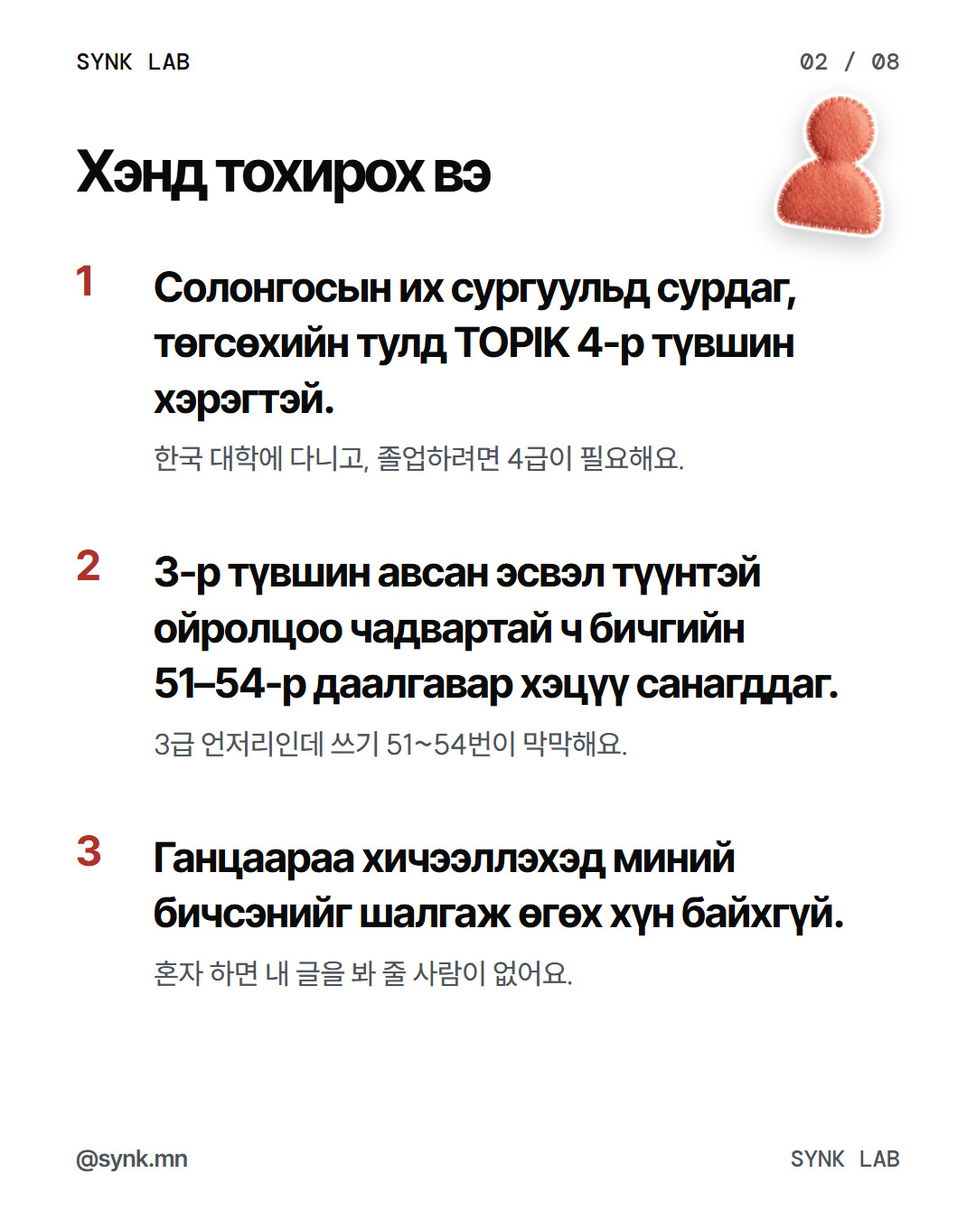
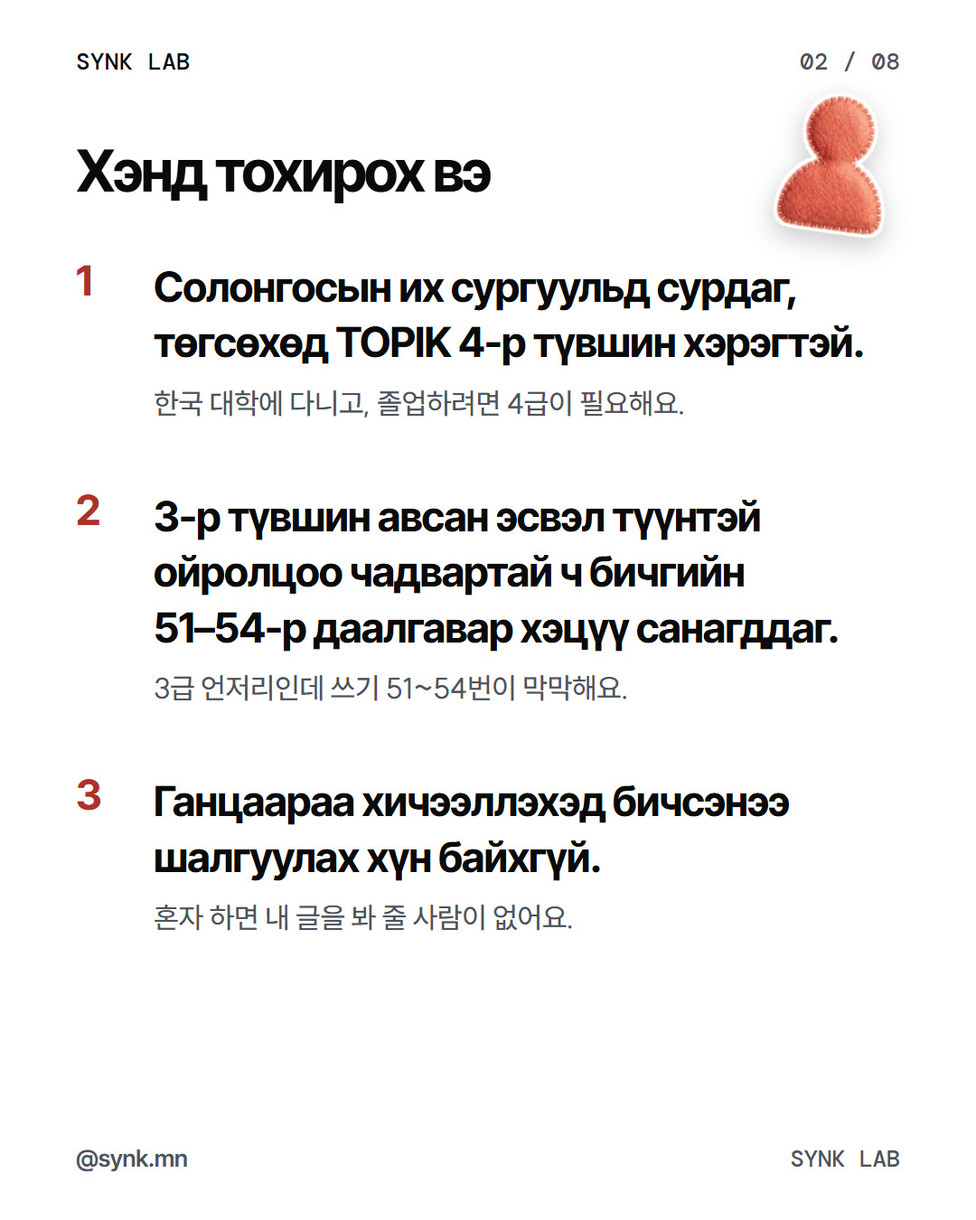
chore(LAB 첫 글 ①): 아르곤 지적 두 곳을 고쳐 10차 대조 「정상」 → 10-24 21:00 인스타·페북 예약
- 2장 셋째 줄 «бичсэнээ шалгуулах»(1인칭 миний 뺌) · 1번 줄 «төгсөхөд … хэрэгтэй», 3장 «Баасан гараг гэхэд · багш засаад буцааж өгнө»(ихэвчлэн 뺌) — 9차 아르곤 어색 → 10차 아르곤 · Vertex 3.1 Pro 정상
- 2 · 3장 다시 굽고 게시 JPG 02 · 03 교체
- Business Suite 교차 예약(10-24 16:02) — 예약 목록 두 줄 확인, 게시결과 · 준비 · README · 기획 갱신
- 현장 노트: 사진 여러 장 예약의 스위치 · 시각 칸 · 시간대 확인
- 트랙 · LAB 장부 M7 · 첫 연락 준비 목록 ⑥ 상태

diff --git a/docs/마케팅/LAB_TOPIK4반소식_mn_20261023/원고.html b/docs/마케팅/LAB_TOPIK4반소식_mn_20261023/원고.html
@@ -93,9 +93,9 @@
   <div class="k-in">
     <h2 class="k-title s mn">Хэнд тохирох вэ</h2>
     <ul class="who">
-      <li><span class="n">1</span><div><p class="m">Солонгосын их сургуульд сурдаг, төгсөхийн тулд TOPIK 4-р түвшин хэрэгтэй.</p><p class="k">한국 대학에 다니고, 졸업하려면 4급이 필요해요.</p></div></li>
+      <li><span class="n">1</span><div><p class="m">Солонгосын их сургуульд сурдаг, төгсөхөд TOPIK 4-р түвшин хэрэгтэй.</p><p class="k">한국 대학에 다니고, 졸업하려면 4급이 필요해요.</p></div></li>
       <li><span class="n">2</span><div><p class="m">3-р түвшин авсан эсвэл түүнтэй ойролцоо чадвартай ч бичгийн <span class="nw">51–54-р</span> даалгавар хэцүү санагддаг.</p><p class="k">3급 언저리인데 쓰기 51~54번이 막막해요.</p></div></li>
-      <li><span class="n">3</span><div><p class="m">Ганцаараа хичээллэхэд миний бичсэнийг шалгаж өгөх хүн байхгүй.</p><p class="k">혼자 하면 내 글을 봐 줄 사람이 없어요.</p></div></li>
+      <li><span class="n">3</span><div><p class="m">Ганцаараа хичээллэхэд бичсэнээ шалгуулах хүн байхгүй.</p><p class="k">혼자 하면 내 글을 봐 줄 사람이 없어요.</p></div></li>
     </ul>
   </div>
   <img class="k-sticker" data-deco src="../../디자인/SNS키트/assets/sticker-person.webp" alt="" style="--s:118px;--r:8deg;right:96px;top:150px">
@@ -110,14 +110,14 @@
     <ul class="steps">
       <li><b>Бямба гараг</b><span>90 минутын шууд хичээл</span></li>
       <li><b>Лхагва гарагийн 23:00 хүртэл</b><span>уншлагын 5 асуулт, бичгийн 1 даалгавраа илгээнэ</span></li>
-      <li><b>Ихэвчлэн Баасан гараг хүртэл</b><span>багш засаад буцааж өгнө</span></li>
+      <li><b>Баасан гараг гэхэд</b><span>багш засаад буцааж өгнө</span></li>
     </ul>
     <p class="note">Хичээлд сууж чадаагүй бол бичлэгээр нөхөж үзнэ.</p>
     <figure class="shotbox" data-trend="screen" style="width:740px;margin-bottom:0">
       <img src="화면/학생-첨삭이왔어요.webp" alt="WORLD 이번 주 과제 — 읽기 냈어요 · 쓰기 첨삭이 왔어요(연습 반)">
       <span class="k-tape" data-deco style="--r:7deg;right:-40px;top:-18px"></span>
     </figure>
-    <p class="cap"><span>Туршилтын ангийн дэлгэцийн зураг · «첨삭» — багшийн засвар</span><span class="ko">토 수업 → 수 밤 11시 과제 → 보통 금요일까지 첨삭</span></p>
+    <p class="cap"><span>Туршилтын ангийн дэлгэцийн зураг · «첨삭» — багшийн засвар</span><span class="ko">토 수업 → 수 밤 11시 과제 → 금요일까지 첨삭</span></p>
   </div>
   <div class="k-foot"><span class="k-handle" style="font-size:26px">@synk.mn</span><span>SYNK LAB</span></div>
 </section>

diff --git a/docs/_ops/트랙.md b/docs/_ops/트랙.md
@@ -19,7 +19,7 @@
 - **PATH 정착관리 — 정할 것 여덟(10-21, 유호님 차례 · 하나는 기한 11-10):** 외국인 정착·통합 관리 사업 계획과 로드맵을 [계획](../PATH_정착관리/README.md)·[두 쪽 판](../PATH_정착관리/한눈에.md)에 썼다(근거 조사 다섯 `docs/PATH_정착관리/조사/`, Fable 검수 세 번 — 32건 + 재검수 9건 + 10-22 뿌리 프로그램 23건 반영). 공고문 원문은 10-22 확인했고(정착 과제 마련·심사 20점·비예산), 전북도 [제안서 초안](../PATH_정착관리/제안/전북_광역형비자_정착과제_제안_초안.md)을 썼다(Fable 검수 17건 반영). 10-22 보내기 전 정할 것 아홉은 유호님이 추천대로 정했고(결정 표), 받는 곳 외국인국제정책과(참조 교육협력과)를 도청 직원검색으로 확인했다. PDF(`제안/전북_광역형비자_정착과제_협력제안서.pdf` — 원고 HTML을 `node docs/PATH_정착관리/제안/굽기.cjs`로 굽는다)와 Gmail(unmet23) 임시보관함 메일 초안(받는 사람 빈칸, PDF 붙임)까지 만들었다 — **10-22 유호님 「1~2주 준비하고 보내자」: 바로 보내지 않는다.** Claude 몫 준비는 10-22에 끝냈다 — 참고 자료·한 장 요약·협력 의향서(안)·참여 안내·동의서(한국어·몽골어, 몽골어는 원어민 검수 전) PDF, 전북 맞춤 보강(근거 [조사 7](../PATH_정착관리/조사/7_전북기존사업.md)), 묶음 전체 Fable 검수 반영(P1 2 · P2 7 · P3 16), Gmail 초안(본문·붙임 셋) 갱신. 10-22 유호님 「10월 29일까지 최대한 보충해서 보내자」 — 참고 자료에 그림·가상 사례·근거·비용을 보태고 Fable 검수(P1 1·P2 7·P3 12)를 모두 반영했다. 같은 날 「앱 화면 시안 몇 장도 만들어서 참고 자료에 넣자」로 4절에 학생 휴대폰 셋(할 일·상담·모임)과 매니저 화면 하나를 넣었다(참고 자료 6쪽, 아르곤 3건(반영 3) · Fable 7건(반영 7), P0·P1 0) — 유호님 「이대로 좋아」, 디자인은 [플랫폼 시그널](../디자인/플랫폼_시그널/README.md#path-settle-app-mockup-20261022). 10-23 「효과 증명·위기 대응·예상 질문 셋 다 보충해줘」 — 참고 자료 효과 증명(비교군·기준선)·밤·주말 위기 대응 절, 제안서·한 장 요약·동의서(한국어·몽골어)에 위기 대응·예외 줄, 유호님용 [예상 질문과 답](../PATH_정착관리/제안/전북_실무협의_예상질문.md)(유호님이 정해 두실 것 다섯 남음 — 비상 당번·매니저 체류자격·또래 리더 활동비·미선정 때 시범·비용 출처 한 줄). 사업자는 10-23 정함 — 개인사업자 없이 2027년 1월 전주 법인, 제안 문서에 「시범(3월) 전 법인 명의로 협약」(결정 10-23). Fable 검수 P1 3건 고친 뒤 재검수 P0·P1 0. 이름·연락처는 저장소 밖 보내는 판과 Gmail 초안에만 넣었다(초안 갱신, 보내지 않음). 10-23 유호님 「아직 보내지마 1주일동안 컨텐츠 준비 제대로 하고 올리자. 아직 많이 미흡한부분이 많아」 — Fable이 도 담당 주무관·공모 평가위원의 눈으로 모자란 곳 열하나를 찾았고(협력처 이름 없음·제안자 얼굴 없음·몽골어 중심 등), 유호님이 정한 넷(매니저는 쉬운 한국어+다수 국적어 우대 · 앱 알림·AI 1차 응답은 최대 200명 두 층 · 대표 소개는 synk.im 공개분만 · 원광대 국제교류처·진흥원에 보내기 전 면담, 결정 10-23)으로 묶음을 고쳤다 — 새 붙임 [신청서 문안](../PATH_정착관리/제안/전북_정착동행_신청서문안_원고.html)(심사 내용별로 맞닿는 곳·개조식 문안), 일정이 밀리면·비용 내역·2028년·방학, 메일 제목·첫 문단, 전화 대본 셋, 참고 자료 절 순서(6쪽). **남은 것([제안 초안 5절](../PATH_정착관리/제안/전북_광역형비자_정착과제_제안_초안.md)): 유호님 전화 셋(도 — 메일 주소·보낼 날·D-2/E-7·서식 칸·대학 연락 양해 / 원광대 국제교류처 / 진흥원) → 면담 1~2건 → Claude가 결과 반영·Fable 재검수 → 10-29 마지막 판 → 10-30 무렵 「보내」**. synk.im/path 「06 정착 동행」 구역은 10-23 공개했다(synk-policy `16b68ea` · 기준 그림 `bcd4196`, 화면 검수 아르곤 1건 반영 → 0 · Fable P0·P1 0, 원고 SYNK-website `d8bf651`, 바로 거는 주소 synk.im/path/#companion). 같은 날 질문창(ASK SYNK)에도 정착 동행 기록을 공개해 「정착 동행이 뭐예요?」·「첫 30일 할 일을 어떻게 챙기나요?」·「매니저가 같이 가 주나요?」·「정착 동행 시범에 참여할 수 있나요?」가 유학·취업 지원 답 대신 06 구역 단추(「정착 동행 보기」)가 달린 답으로 간다(synk-policy `7f77ec8` · 기준 그림 `a556e4a`, 원고 SYNK-website `b4bde93`, 화면 검수 아르곤 막힘(주간 0%) → Fable 2회 재현 P0·P1·P2 0 · P3 1 후속). 10-24 영어 synk.im/en/path에도 06 「Settle Together」 구역(한국어 06과 같은 사실 · 한국어 앱 시안임을 밝힘)과 영어 질문창 단추(「See Settle Together」)를 공개했다(v11 판 위 — synk-policy `431d46d` · 기준 그림 `c2fc457`, 원고 SYNK-website `81ef9f0`, 화면 검수 아르곤 막힘 → Fable 2회 재현 P0·P1 0). 도 공모 마감 11-10. 같은 날 유호님 요청으로 문제의 근본 원인을 건강하게 푸는 「뿌리 프로그램」을 계획 4-11절에 더했다(근거 [조사 5](../PATH_정착관리/조사/5_근본원인_건강한해결.md) — 마약은 피로·빚·고립·신분 불안을 무리별로 나눠 한 팀 리그·모국어 또래 리더·첫 주 「돈 유혹」 교육·사업장 피로 점검·신분 걱정 없는 첫 상담으로 푼다). 같은 날 유호님이 외국인 일자리 조사를 보고 「PATH의 심장」(2030년 업종별 최소 112.5만 명 부족 → 인력 관리)과 최종 목표(LAB TOPIK 4급 → 모자라는 자리의 조건·인성·적응을 풀어 주는 회사, 자격증은 연결)를 말씀해 계획 0절·[2-5절](../PATH_정착관리/README.md)·4-13절 「일자리 사다리」(다섯 갈래 — 돌봄·지방 제조·유학→지역 정착·조선·농어업, 직접 할 것과 잇는 것)·7-2·8절과 두 쪽 판에 넣었다(근거 [조사 8](../PATH_정착관리/조사/8_부족직종과_자격조건.md) — 법무부 2030 전략 표·체류민원 매뉴얼 2026-10판·요양보호사 양성지침·Q-net 원문, Fable 검수 P0·P1 0 · P2 10 · P3 12 모두 반영, 결정 표 10-22). 남은 확인: 요양보호사 E-7-2 시범(지침상 2026년까지)의 2027년 이후, 몽골 EPS-TOPIK 2026 일정. 계획의 정할 것은 11절 — ① 「통제」 대신 「책임 관리」 ② 이름(가칭 PATH 정착관리) ③ 외국인 핵심 지원 0원·도움과 단속 사이의 벽 ④ 첫 시범 순서·시기(추천: 2027-03 몽골 유학생 무료 시범) ⑤ **전북도 제안 — 공모 마감 2026-11-10**(위 준비 뒤 보내는 날·보내기 승인) ⑥ 공공 위탁은 비영리 파트너와 ⑦ 값 가설 ⑧ 기존 PATH #19 정착 패키지를 A1로 흡수. 연락·계약·구현은 없다.
 - **PULSE 「매진 임박」 공포 코미디 × 홈쇼핑 — 콘티 v4(원본 릴스 그대로) 이미지 콘티 끝 · 옷은 코케트로 확정(10-23 유호님 「옷은 코케트(원본 꼴 리본) 안으로 가자. 보드도 봤어.」) · B안 시험 넷 끝(10-23 밤 유호님 「맘에 들어. b안으로 일단 테스트해보자.」 — 이미지 콘티는 만족 장부 S31) · 칼 든 강도 컷의 길 고르기 기다림:** 원본 31컷 첫 프레임과 나란히 놓은 보드 `Documents/synk-vendor/homeshopping-horror-20261021/콘티/매진임박_이미지콘티_v4_1~4.jpg` · `_한눈.jpg`, 옷 두 안 `매진임박_옷비교_v4.jpg`(원본 꼴 리본 · 코케트가 기본 추천 / 지금 옷) — 만든 길 · 닮음 · Fable 검토는 [콘티 v4 10절](../마케팅/PULSE_포트폴리오_제작준비_20261012/video/homeshopping-horror-20261021/04_콘티_v4_원본그대로.md). 강도는 복면(10-23 유호님 「강도는 원본처럼 복면으로 하자.」), 제품 · 강도가 든 물건은 블렌더 렌더 합성. B안 시험 넷 결과(Flow 114 — 6,563 → 6,449): #2 칼 든 강도는 Veo 3.1 Quality가 정책 위반으로 두 번 막음(크레딧 0), #31 도시락 강도는 Veo 통과(도시락이 0.5초 만에 다시 그려져 마감 때 블렌더로 덮음), #7 · #10 피해자 Omni는 두 판 중 한 판씩 통과(다른 판은 정책으로 막혀 환불) — 비교 영상 `synk-vendor/…/영상/v4시험/v4시험_원본과나란히.mp4`. 칼이 보이는 강도 컷이 열 중 일곱이라 유호님 차례: ② 강도도 모두 Omni(추천, 남은 약 380) · ① 칼 컷 일곱만 Omni(남은 약 528) 중 고르면 나머지 23컷. 견적 두 안(A안 Omni 27컷 약 408 / B안 약 1,258)은 [04 10절 끝](../마케팅/PULSE_포트폴리오_제작준비_20261012/video/homeshopping-horror-20261021/04_콘티_v4_원본그대로.md). 광고 카드는 블렌더 합성판 위 Remotion(크레딧 0). 그 전: 영상판 v2에 유호님 「개연성이 안보여 … 누가봐도 ai로 대충 만든 광고같아 … 구성을 아예 똑같이 하는게 그나마 나을것같아. 시간초나 장면전환하는타이밍이나 구도나 전부 말이야」 → 원본 72.7초 · 31컷을 프레임으로 재고 그대로 옮긴 콘티 v4(Fable 원본 대조 반영). 아래는 그 전 기록. **10-23 영상판:** 「가편집 v8 좋아. 이대로 Omni 1.1 Flash로 영상 만들자(약 20컷, 약 280 Flow).」(장부 S28)대로 정지컷 자리 21곳을 Omni 클립으로 바꾼 영상판 v2(`synk-vendor/…/영상판/매진임박_영상판_v2_16x9.mp4` · `_9x16.mp4`, Flow 245) — Fable 「보여 드려도 된다」(P2 둘 고침). 유호님 차례: ① 영상판 v2를 보고 고칠 곳 ② 강도 갸웃 클로즈업 C05v3는 얼굴이 덜 닮는 구간을 빼고 시작 그림에 가까운 구간을 썼다 — 곁눈질이 큰 구간이나 다시 생성(14 Flow)을 원하시면 그때 ③ 최종 음악(Suno). 아래는 그 전 기록. v2 가편집(강도 유호님 · 피해자 통2 · 리4 · 지유)에 「매진임박 맘에 드는데 ?」(장부 S27) 뒤 「더 재밌고 사람들 반응이 좋은걸로 하자 … 크롤링해서 데이터를 제대로 파악해서 적용시켜줘 … 앵글이나 이런것도 … 영상 제작은 바로 하지말고 일단 콘티 완벽하게 만들어놓고 진행하자」(10-22)에 반응 조사(한국 YouTube 300편 · 해외 251편 · 상위 16편 컷 실측 — [조사](../마케팅/PULSE_포트폴리오_제작준비_20261012/video/homeshopping-horror-20261021/02_반응조사_20261022.md))를 넣은 콘티 v3.1(39.2초 · 30컷, [콘티](../마케팅/PULSE_포트폴리오_제작준비_20261012/video/homeshopping-horror-20261021/03_콘티_v3.md))과 이미지 콘티 · 가편집 v8을 만들었다([브리프](../마케팅/PULSE_포트폴리오_제작준비_20261012/video/homeshopping-horror-20261021/00_브리프.md) 「지금 판」, 미디어 `Documents/synk-vendor/homeshopping-horror-20261021/` — `콘티/매진임박_이미지콘티_v3.jpg` · `가편집/매진임박_가편집_v8_*`). 쇼호스트 하린을 새로 세웠고 제품은 2안 꽉 밀폐용기 — **10-23 유호님 확정 「제품은 2안 꽉 밀폐용기로 가자.」** 영상 생성은 하지 않았다. 유호님 차례: ① 가편집 v8 · 이미지 콘티를 보고 고칠 곳 ② 영상 모델(약 20컷 — Omni 1.1 Flash 약 280 Flow, 입모양 맞출 컷 넷). 끝 판 셋(기본 · 「주문 완료」에서 끊는 짧은 판 · 「너네도 필요해?」)과 9:16 머리글 넷은 올릴 때 견준다. **10-22 유호님:** 이 작품은 모델별 참고 영상 기각에 들지 않는다(「그건 빼고 완성되면 올리자」) — 완성되면 PULSE 고객 앱 「완성 광고」 공간에 올린다(§8 「PULSE 모델은 사진만 · 완성 광고」 줄).
 - **1일 1편 작업실 예약 — 연결 완료, 편마다 검토 승인(10-23):** 비밀번호 9자 이상을 받는 판은 19:02 운영에 올랐고 회사 HA 사슬 26 합본은 19:45 재무장됐다. 그 화면에서 유호님이 직접 저장한 뒤 자동화 보관소 이메일을 같은 작업실 계정에 맞췄다(비밀번호는 그대로). 19:49 KST 실제 `/api/login`·`/api/me`·`/api/social/workspace`가 모두 200이며 본인 계정 일치·기존 작업 7건 전부 게시 완료·예약 대기 0건을 확인했다. 19:51 정기 작업도 등록·서버 대조 모두 종료 0으로 끝나 401 연결 문제는 해소됐다. 실제 새 편의 등록·발행은 그 편의 승인 뒤 확인한다. 정기 작업 「SYNK 예약큐」는 기존 30분 주기를 유지한다. 편마다 텔레그램 검토 링크에서 유호님이 승인해야 나가는 조건도 그대로다([작업실 예약 등록](../마케팅/온라인마케팅지도/engagement/company/WORKSPACE.md#daily-content-workspace-booking-20261021)). 게시 연결 넷은 같은 날 @synkkorean·@synkbrief(유튜브)·@synkbrief·@synk.mn(인스타)에 연결 확인을 마쳤다. 서버의 언어·AI 표시 등 판별 지원 범위는 §6 같은 이름 줄과 실제 게시 전 검사를 따른다. 비식별 읽기·예약 실행 검증 근거는 `output/business-workflow-pilot-review/`의 `auth-verification-2026-10-23T10-49-43-159Z.json`·`scheduled-run-proof.json`이다.
-- **TOPIK 4급 관심 등록 — 정할 것(10-21):** 공개한 synk.im/lab/topik4/에서 ① 시험 등록 종단 확인은 10-21 끝(회사 서버 수집·시험 분류까지) ② 모집 글(`experiences/lab-topik4/모집글.md`) 게시와 @synk.mn 프로필 링크 바꾸기 ③ 영업 명단 30곳 첫 메일·DM — 첫 연락일은 「보내기 전 확인 셋」(실제 계정 쓰기 피드백 · 휴대폰 실기기 · 회신 주소)이 끝나는 날(10-21 밤 유호님, [결정](결정.md)). ①② 10-21 유호님 휴대폰 확인 끝(막힌 곳 없음), ③ 회신 주소 hello@synk.im으로 채움(10-21 밤) → **1차 묶음은 10-30 무렵, 준비가 충분해진 뒤 보냄 — 10-22 낮 유호님 「1주일동안 우리 사업 전체를 강화하고 보내자」, 10-23 「충분히 준비되고나서 … 준비해놓은 컨텐츠가 많이 부족」 → 그 전에 맛보기 수업 영상과 @synk.mn 첫 글들을 채운다** — 그 1주 할 일은 [준비 목록 6절](../../experiences/lab-topik4/첫연락_준비목록.md#week-before)([결정](결정.md) 10-22·10-23). 예약 걸어 둔 것 없음(초안·붙일 것은 저장소 밖 `Documents/메일정리/2026-10-21/영업_첫30곳/`, 묶음 목록은 그 폴더 `1차_보낼묶음.md`). 검수용 Gmail 초안 7통(unmet23 「Drafts」, 보내지 않음·예약 없음)은 사실 확인·메일 다듬기 뒤 새 판으로 바꾼다 — 보내기는 유호님 검수 뒤 Gmail에서 직접. 그 밖의 [첫 연락 준비 목록](../../experiences/lab-topik4/첫연락_준비목록.md)은 문턱이 아니라 그날까지 되는 만큼 — 10-21 밤 Claude가 넷(TOPIK II 입구 확인 · 몽골어 안내문 · 통화용 소개 · 신청 운영 절차)을 갖췄고, 10-22에 WORLD TOPIK II 바로가기 주소를 더했다(메일 초안의 WORLD 링크 46곳도 새 주소로 바꿈 — 검수하실 때 `https://synk.im/world/?exam=topik2…`로 보입니다). @synk.mn 반 소식이 남았다(환불 기준점은 10-22 확정). 신청 수는 매주 월요일 회사 Workspace 「문의 접수」에서 세어 주세요([README 신청 운영](../../experiences/lab-topik4/README.md#신청-운영주-1회)). **@synk.mn 첫 글 두 편 v2(10-23 저녁, ab09e540c)** — 유호님 「오케이 이건 그럼 내일 제미나이 초기화되면 올리자」: 대조기는 10-23 21시 Vertex Gemini 3.1 Pro로 끝(전부 「정상」) — ① 반 소식 10-24 21:00 · ② 51·52번 빈칸 10-27 21:00, 14시 「오늘 편 게시」 작업이 건다([① 게시 묶음](../마케팅/LAB_TOPIK4반소식_mn_20261023/게시/README.md)). 그 전에 유호님 휴대폰 앱: 인스타 프로필 링크 둘(웹 · Business Suite로는 안 됨). 페북 SYNK 페이지 소개 링크는 10-23 Claude가 더함. **10-24 14시 아르곤 대조: ① 다섯 묶음 중 하나 「어색」(2장 셋째 줄 1인칭 «миний» · 3장 «Баасан гараг хүртэл») → 승인 조건대로 걸지 않고 보류(게시결과), 두 곳을 고쳐 다시 구울지 그대로 올릴지 유호님 답 대기 · ② 세 묶음 「정상」**([① 검사.아르곤](../마케팅/LAB_TOPIK4반소식_mn_20261023/게시/준비.json)).
+- **TOPIK 4급 관심 등록 — 정할 것(10-21):** 공개한 synk.im/lab/topik4/에서 ① 시험 등록 종단 확인은 10-21 끝(회사 서버 수집·시험 분류까지) ② 모집 글(`experiences/lab-topik4/모집글.md`) 게시와 @synk.mn 프로필 링크 바꾸기 ③ 영업 명단 30곳 첫 메일·DM — 첫 연락일은 「보내기 전 확인 셋」(실제 계정 쓰기 피드백 · 휴대폰 실기기 · 회신 주소)이 끝나는 날(10-21 밤 유호님, [결정](결정.md)). ①② 10-21 유호님 휴대폰 확인 끝(막힌 곳 없음), ③ 회신 주소 hello@synk.im으로 채움(10-21 밤) → **1차 묶음은 10-30 무렵, 준비가 충분해진 뒤 보냄 — 10-22 낮 유호님 「1주일동안 우리 사업 전체를 강화하고 보내자」, 10-23 「충분히 준비되고나서 … 준비해놓은 컨텐츠가 많이 부족」 → 그 전에 맛보기 수업 영상과 @synk.mn 첫 글들을 채운다** — 그 1주 할 일은 [준비 목록 6절](../../experiences/lab-topik4/첫연락_준비목록.md#week-before)([결정](결정.md) 10-22·10-23). 예약 걸어 둔 것 없음(초안·붙일 것은 저장소 밖 `Documents/메일정리/2026-10-21/영업_첫30곳/`, 묶음 목록은 그 폴더 `1차_보낼묶음.md`). 검수용 Gmail 초안 7통(unmet23 「Drafts」, 보내지 않음·예약 없음)은 사실 확인·메일 다듬기 뒤 새 판으로 바꾼다 — 보내기는 유호님 검수 뒤 Gmail에서 직접. 그 밖의 [첫 연락 준비 목록](../../experiences/lab-topik4/첫연락_준비목록.md)은 문턱이 아니라 그날까지 되는 만큼 — 10-21 밤 Claude가 넷(TOPIK II 입구 확인 · 몽골어 안내문 · 통화용 소개 · 신청 운영 절차)을 갖췄고, 10-22에 WORLD TOPIK II 바로가기 주소를 더했다(메일 초안의 WORLD 링크 46곳도 새 주소로 바꿈 — 검수하실 때 `https://synk.im/world/?exam=topik2…`로 보입니다). @synk.mn 반 소식이 남았다(환불 기준점은 10-22 확정). 신청 수는 매주 월요일 회사 Workspace 「문의 접수」에서 세어 주세요([README 신청 운영](../../experiences/lab-topik4/README.md#신청-운영주-1회)). **@synk.mn 첫 글 두 편 v2(10-23 저녁, ab09e540c)** — 유호님 「오케이 이건 그럼 내일 제미나이 초기화되면 올리자」: 대조기는 10-23 21시 Vertex Gemini 3.1 Pro로 끝(전부 「정상」) — ① 반 소식 10-24 21:00 · ② 51·52번 빈칸 10-27 21:00, 14시 「오늘 편 게시」 작업이 건다([① 게시 묶음](../마케팅/LAB_TOPIK4반소식_mn_20261023/게시/README.md)). 그 전에 유호님 휴대폰 앱: 인스타 프로필 링크 둘(웹 · Business Suite로는 안 됨). 페북 SYNK 페이지 소개 링크는 10-23 Claude가 더함. **10-24 아르곤 대조: ① 다섯 묶음 중 하나 「어색」(14시 보류) → 두 곳을 고쳐 10차 아르곤 · Vertex 「정상」, 2 · 3장 다시 구워 16:02에 21:00 예약됨(인스타 · 페북) · ② 세 묶음 「정상」(10-27 21:00 슬롯). 남은 것: 21:00 뒤 ① 인스타 고정 · 게시 주소 기록**([① 검사.아르곤](../마케팅/LAB_TOPIK4반소식_mn_20261023/게시/준비.json)).
 
 - **WORLD TOPIK 맞춤 검수 — 최종안 고르기(10-20, 유호님 차례):** 1차 Claude·2차 페이블·3차 아스트라를 합친 [최종 제안](../../experiences/synk-world-app/qa/topik-personalization-review-20261020/최종_제안.md)과 [보고 페이지](https://claude.ai/artifact/L8riXRNw7PmcLxGkPrtPL8). 결론: 엔진의 측정은 믿을 만하지만 읽기 처방 고리가 없고(학습 항목이 이어진 활동은 듣기 게임 둘뿐), 화면이 진단 결과를 접어 보이며, 공개판 쓰기·TOPIK II·모의시험·대화 음성이 0이다. 정할 것: 지금 묶음(읽기 처방·예상 급수 칸 정직하게·진단 결과 구별·위치판 이력·홈 이유 한 줄·목표 이름) 진행 여부, 「TOPIK 기초」의 새 이름, 시험 종류·목표 급·시험일을 물을지, 문항·대화 음성 제작과 교원 검수, TOPIK II 범위, 제품 AI 호출 비용, 손님 기록 옮기기.
 

diff --git a/experiences/lab-topik4/첫연락_준비목록.md b/experiences/lab-topik4/첫연락_준비목록.md
@@ -134,6 +134,6 @@
 | 할 일 | 상태 |
 |---|---|
 | ⑤ 맛보기 수업 영상 — TOPIK II 쓰기 51~54번 한 문항을 실제 수업처럼 푸는 3~5분 영상(몽골어 자막). 학교가 「어떻게 가르치나」를 바로 보게 신청 페이지·메일·@synk.mn에 쓴다 | 최종본(10-23) — 유호님 「이미지 콘티 좋아. 배경음 깐 판으로 목소리 다 굽고 영상 만들어줘」로 만들었다. 4분 6초 · 범수 0.85배 35줄 · 몽골어 자막 · 배경음 약 20dB 아래 · −14.6 LUFS. 낯선 사람 이해 시험 두 판(몽골 유학생 · 국제처 직원) 통과, Fable 최종 검수 지적 모두 반영(P0·P1 0). 유호님 고르기 대기 — 고르시면 신청 페이지 영상 칸(학생 화면 검수 뒤 공개) · 메일 칸 주소. 짧은 판(@synk.mn)은 그 세션 순위 관문에서 「예비」. [콘티](../../docs/마케팅/LAB_TOPIK4맛보기수업_20261023/콘티.md) |
-| ⑥ @synk.mn 첫 글들 — 전단 QR·메일을 보고 들어온 학생이 볼 반 소식·쓰기 팁 몇 편. 만들어 두고 게시는 유호님 「올려」 뒤 | 두 편 완성 — 유호님 「올려」 기다림(10-23). 유호님이 ①·②를 고르고 「③ 무료 쓰기 연습은 ②의 끝 장에 합쳐 줘」 → [① 반 소식](../../docs/마케팅/LAB_TOPIK4반소식_mn_20261023/기획.md)(여러 장 8, 슬롯 10-24 21:00) · [② 51·52번 빈칸 「이 답, 맞을까요?」 + 무료 쓰기 20문항](../../docs/마케팅/LAB_TOPIK4빈칸규칙_mn_20261023/기획.md)(여러 장 6, 슬롯 10-27 21:00). 실제 화면은 반 리허설 3배율 재촬영(시험 반)과 WORLD 몽골어 화면. 몽골어 세 겹(대조기 · 원문 안 본 역번역 · Fable) · 낯선 사람 이해 시험 최종본 두 편 4점 통과 · Fable 완성본 P0 없음. 여러 장 글이라 「올려」 뒤 Business Suite로 인스타 · 페북을 함께 올리고 두 글을 고정한다. **v2(10-23 저녁, 유호님 「최선의 준비가 맞아? … 마감이나 디자인까지」)**: Fable 독립 검수 · SNS 키트 규칙대로 다시 — 표지 · 끝에 이 편용 몽글 펠트 장면, ①은 첨삭 증거(신청 페이지 맛보기 W3 다섯 곳 + 세 줄)와 8주 차시표를 더해 8장, ②는 판정을 앱과 같은 세 점으로 · 틀리지 않은 문장의 ✗를 「Хагас зөв」로 · 반복 예를 새 예로. 유호님 휴대폰(**① 올리기 전에**, 장 · 캡션이 「링크는 프로필에」라고 말하므로): 인스타 프로필 링크 «Урьдчилан бүртгүүлэх»(신청 `from=ig-bio-mn`) · «Бичгийн дасгал»(WORLD 쓰기 연습), 페북 페이지 소개에도 신청 링크. 근거 · 순위 관문은 [기획 후보](../../docs/마케팅/LAB_TOPIK4첫글_20261023/기획후보.md) |
+| ⑥ @synk.mn 첫 글들 — 전단 QR·메일을 보고 들어온 학생이 볼 반 소식·쓰기 팁 몇 편. 만들어 두고 게시는 유호님 「올려」 뒤 | 두 편 완성 — **① 10-24 21:00 예약됨(인스타 · 페북, 아르곤 · Vertex 대조 「정상」 뒤 10-24 16:02) · ② 10-27 21:00 슬롯(같은 승인, 14시 「오늘 편 게시」 작업이 건다)**. 유호님이 ①·②를 고르고 「③ 무료 쓰기 연습은 ②의 끝 장에 합쳐 줘」 → [① 반 소식](../../docs/마케팅/LAB_TOPIK4반소식_mn_20261023/기획.md)(여러 장 8, 슬롯 10-24 21:00) · [② 51·52번 빈칸 「이 답, 맞을까요?」 + 무료 쓰기 20문항](../../docs/마케팅/LAB_TOPIK4빈칸규칙_mn_20261023/기획.md)(여러 장 6, 슬롯 10-27 21:00). 실제 화면은 반 리허설 3배율 재촬영(시험 반)과 WORLD 몽골어 화면. 몽골어 세 겹(대조기 · 원문 안 본 역번역 · Fable) · 낯선 사람 이해 시험 최종본 두 편 4점 통과 · Fable 완성본 P0 없음. 여러 장 글이라 「올려」 뒤 Business Suite로 인스타 · 페북을 함께 올리고 두 글을 고정한다. **v2(10-23 저녁, 유호님 「최선의 준비가 맞아? … 마감이나 디자인까지」)**: Fable 독립 검수 · SNS 키트 규칙대로 다시 — 표지 · 끝에 이 편용 몽글 펠트 장면, ①은 첨삭 증거(신청 페이지 맛보기 W3 다섯 곳 + 세 줄)와 8주 차시표를 더해 8장, ②는 판정을 앱과 같은 세 점으로 · 틀리지 않은 문장의 ✗를 「Хагас зөв」로 · 반복 예를 새 예로. 유호님 휴대폰(**① 올리기 전에**, 장 · 캡션이 「링크는 프로필에」라고 말하므로): 인스타 프로필 링크 «Урьдчилан бүртгүүлэх»(신청 `from=ig-bio-mn`) · «Бичгийн дасгал»(WORLD 쓰기 연습), 페북 페이지 소개에도 신청 링크. 근거 · 순위 관문은 [기획 후보](../../docs/마케팅/LAB_TOPIK4첫글_20261023/기획후보.md) |
 
 **보내기 전에 유호님이 정할 것:** 교사 소개 한 줄, 수업 언어, 통화 도구와 가능한 시간, 후속 메일을 보낼지(`답장_통화_준비.md` 6절), @synk.mn 모집 글 게시. 사업자·법인을 물으면 할 답은 [결정 표](../../docs/_ops/결정.md) 10-23(개인사업자 없이 2027년 1월 전주 주식회사)대로 답장 준비 Q2를 한국어·몽골어로 고쳤다(10-23, 몽골어 대조 문법 정상).

diff --git a/docs/마케팅/기획장부/LAB.md b/docs/마케팅/기획장부/LAB.md
@@ -39,6 +39,6 @@
 | M3 | 내 몽골 이름을 한글로 | 화면 글 | 예비 | | 근거 세 채널 댓글 요청 5건 넘게. 키릴 → 한글 표기 규칙과 한글 이름 도구 경로를 먼저 만든다 |
 | M6 | 몽골어와 한국어는 어순이 같다 | 화면 글 | 예비 | | 언어학 검수가 먼저 |
 | M8 | TOPIK 4급 반 첫 글 ② 51·52번 빈칸(10-23 유호님 고름 · 슬롯 10-27) — 「이 답, 맞을까요?」 맞혀 보기 + 규칙 셋 + 끝 장 무료 쓰기 연습 | 여러 장 · 쓰기 요령 | 완성 | [LAB_TOPIK4빈칸규칙_mn_20261023](../LAB_TOPIK4빈칸규칙_mn_20261023/기획.md) | 근거 유튜브 Ulzii ZDxNORRbS0M(2024-12-29 · 51·52번 요령 · ×3.6) · 몽골어 쓰기 롱폼 77편 중 16편 튐(요령형 15편 중 8편) · 인스타 헷갈리는 짝 dailystudykorean DYnzpEQjyV2(2026-05-22 · ×4.9). 첫 장 «Энэ хариулт зөв үү?». 댓글: Зөв / Хагас зөв / Буруу. **2주 시험 밖**(「시험」 칸 없음) · 고정 글 · [기획 후보](../LAB_TOPIK4첫글_20261023/기획후보.md)(10-23 새 Fable 순위 관문). **v2(10-23 저녁, 유호님 「최선의 준비가 맞아?」)**: 판정을 앱과 같은 세 점(Зөв · Хагас зөв · Буруу)으로, 틀리지 않은 문장에 친 ✗를 「Хагас зөв」로, 같은 예 네 번 반복을 새 예로, 표지 · 끝에 이 편용 몽글 펠트 장면 |
-| M7 | TOPIK 4급 반 첫 글 ① 반 소식(10-23 유호님 고름 · 슬롯 10-24) — 「졸업까지 TOPIK 4급이 모자라요?」 + 한 주 흐름(연습 반 실제 화면) | 여러 장 · 반 소식 | 완성 | [LAB_TOPIK4반소식_mn_20261023](../LAB_TOPIK4반소식_mn_20261023/기획.md) | 근거 인스타 enkhsaikhan_bagsh C-2Sy39BqBS(2024-08-19 · 온라인 반 모집 · ×4.5) · mollyclass Dcf4I0vR1CR(2026-08-26 · ×7.9, 릴스 · 키워드 댓글 장치). 반례: 반 소개 영상만은 안 튐(idoclass_ 틱톡 ×0.8). 첫 장 «Төгсөхөд TOPIK 4-р түвшин хэрэгтэй юү?» + «Долоо хоног бүр бичвэрээ засуулна». 댓글: 4급이 필요한 친구에게 보내기. 2주 시험 밖 · 고정 글 · 첫 연락(10-30 무렵) 전에. **v2(10-23 저녁)**: 8장 — 첨삭 증거를 신청 페이지 맛보기(W3 53번 표시 다섯 곳 + 세 줄)로 읽히게, 8주 차시표 장, 표지 · 끝에 이 편용 몽글 펠트 장면, 토요일 시각은 「등록할 때 고른다」 |
+| M7 | TOPIK 4급 반 첫 글 ① 반 소식(10-23 유호님 고름 · 슬롯 10-24) — 「졸업까지 TOPIK 4급이 모자라요?」 + 한 주 흐름(연습 반 실제 화면) | 여러 장 · 반 소식 | 예약됨(10-24 21:00 · 인스타 · 페북) | [LAB_TOPIK4반소식_mn_20261023](../LAB_TOPIK4반소식_mn_20261023/기획.md) | 근거 인스타 enkhsaikhan_bagsh C-2Sy39BqBS(2024-08-19 · 온라인 반 모집 · ×4.5) · mollyclass Dcf4I0vR1CR(2026-08-26 · ×7.9, 릴스 · 키워드 댓글 장치). 반례: 반 소개 영상만은 안 튐(idoclass_ 틱톡 ×0.8). 첫 장 «Төгсөхөд TOPIK 4-р түвшин хэрэгтэй юү?» + «Долоо хоног бүр бичвэрээ засуулна». 댓글: 4급이 필요한 친구에게 보내기. 2주 시험 밖 · 고정 글 · 첫 연락(10-30 무렵) 전에. **v2(10-23 저녁)**: 8장 — 첨삭 증거를 신청 페이지 맛보기(W3 53번 표시 다섯 곳 + 세 줄)로 읽히게, 8주 차시표 장, 표지 · 끝에 이 편용 몽글 펠트 장면, 토요일 시각은 「등록할 때 고른다」 |
 | M9 | TOPIK 4급 반 첫 글 ③ 무료 쓰기 연습(10-23 유호님 「②의 끝 장에 합쳐 줘」) — TOPIK II 51~54 20문항(SYNK WORLD) | 여러 장 · 무료 자료 | M8에 합침 | [M8 끝 장](../LAB_TOPIK4빈칸규칙_mn_20261023/기획.md) | 근거 인스타 enkhsaikhan_bagsh DPT4oiqj9dw(2025-10-02 · 쓰기 해설 무료 · ×3.3) · 유튜브 댓글 「이 문제들은 어디서 구하나」. 반례 @topiktoi0(쓰기 연습 + 첨삭 ▶674). 첫 장 «Бичгийн 20 дасгал — үнэгүй». ②가 72시간을 넘긴 뒤 — 또는 ②의 끝 장으로 합침. 2주 시험 밖 |
 | M10 | 맛보기 수업 짧은 판 — 53번 「15% 증가」 ✗ → 15%포인트(9:16 40초) | 릴스 · 맛보기 세션 | 예비 | | 10-23 순위 관문에서 떨어뜨림: 세로 짧은 영상의 쓰기 근거 없음(유튜브 쇼츠 124편 중 2편) · 「숫자 둘」로 줄이면 「왜 틀린가」가 빠짐. 맛보기 본편([콘티](../LAB_TOPIK4맛보기수업_20261023/콘티.md))이 이해 시험을 통과한 뒤 다음 월요일 순위에 다시 |

diff --git a/docs/마케팅/LAB_TOPIK4반소식_mn_20261023/게시/README.md b/docs/마케팅/LAB_TOPIK4반소식_mn_20261023/게시/README.md
@@ -4,6 +4,8 @@
 
 > **승인(10-23 저녁, 유호님 「오케이 이건 그럼 내일 제미나이 초기화되면 올리자」):** 대조기는 10-23 21시 Vertex로 끝났다(「정상」) — 슬롯대로 건다 — 14시 「오늘 편 게시」 작업이 이 승인으로 다시 묻지 않고 건다(`준비.json` 「승인」). 「어색」이면 걸지 않는다.
 
+> **예약됨(10-24 16:02, Claude · Business Suite):** 인스타 @synk.mn · 페북 SYNK 10-24 21:00. 남은 것 — 인스타 프로필 링크 둘(유호님 앱, 21:00 전) · 21:00 뒤 인스타 고정 · 게시 주소를 `게시결과.json`에.
+
 | 칸 | 값 |
 |---|---|
 | 슬롯 | 2026-10-24(토) 21:00 KST — 「올려」가 늦으면 lab-instagram 큐의 다음 빈 날 |
@@ -19,12 +21,12 @@
 1. 인스타 @synk.mn 프로필 링크 둘(**앱에서만** — 웹은 「링크 수정은 모바일에서만」, Business Suite는 인스타 로그인 인증이 필요; 지금 링크 http://synk.im 자리를 신청 링크로) — 첫째 «Урьдчилан бүртгүүлэх» `https://synk.im/lab/topik4/?from=ig-bio-mn&lang=mn`, 둘째 «Бичгийн дасгал» `https://synk.im/world/?exam=topik2&lang=mn`(② 6장이 이 이름을 말한다).
 2. ~~페이스북 SYNK(synkworld) 페이지 소개의 링크에도 신청 페이지를 건다~~ — **끝(10-23, Claude · Business Suite)**: 웹사이트 맨 위 `https://synk.im/lab/topik4/?from=fb-page-mn&lang=mn`(synk.im은 그대로).
 3. ~~대조기(몽골어 1층)를 10-24 낮에 돌린다~~ — **끝(10-23 21시, Vertex Gemini 3.1 Pro)**: 두 편 몽골어 전부 8묶음 문법 「정상」 · 맞춤법 의심 0 · 역번역 뜻 일치(`검문/대조_7차_vertex_*.txt`).
-4. 아르곤 대조(유호님 「아르곤으로도 한번 검수해볼래?」) — 10-24 12:06 KST에 agy 몫이 풀리면 `검문/문안_7차_vertex_1~5`를 `--구독`으로 돌려 「정상」을 본다(Vertex 3.1 Pro 7차는 이미 「정상」). 몫이 안 풀렸으면 Vertex 결과로 건다.
+4. ~~아르곤 대조(유호님 「아르곤으로도 한번 검수해볼래?」)~~ — **끝(10-24)**: 14시 세션 8차에서 1~3장 묶음이 「어색」 → 2장 셋째 줄 · 3장 금요일 꼬리표를 고쳐 10차가 아르곤 · Vertex 3.1 Pro 모두 「정상」(`검문/대조_10차_*.txt`), 2 · 3장 다시 구움.
 
 ## 올리는 순서(「올려」 뒤)
 
 1. Business Suite → 게시물 만들기 → 인스타 @synk.mn과 페이스북 SYNK(synkworld)를 함께 고른다.
 2. 사진 01~08을 순서대로 넣는다(여러 장 게시물). 인스타 · 페북 글을 따로 맞춤 → 인스타는 `캡션_mn.txt`, 페북은 `본문_fb_mn.txt`.
-3. 슬롯 시각으로 예약하거나 바로 게시. 게시 · 예약 목록에서 새 줄을 먼저 확인한다(다시 누르면 두 번 올라간다).
+3. 슬롯 시각으로 예약하거나 바로 게시. 게시 · 예약 목록에서 새 줄을 먼저 확인한다(다시 누르면 두 번 올라간다). — **끝(10-24 16:02 Claude)**: 21:00 예약, 「예약됨」에 인스타 · 페북 두 줄(「2026년 10월 24일 토요일 9:00」). Facebook 스토리 공유는 이 글만 껐고 홍보는 하지 않았다.
 4. 게시 뒤: 인스타 프로필에서 이 글을 고정한다. ② 51·52번 빈칸 글도 고정할 때는 ②를 먼저, 이 글을 나중에 고정해 이 글이 맨 앞에 오게 한다.
 5. 게시 주소를 `게시결과.json`에 적고, 회사 작업실 게시 성과에 「게시 주소로 추가」(연결된 채널이면 자동).

diff --git a/docs/마케팅/LAB_TOPIK4반소식_mn_20261023/기획.md b/docs/마케팅/LAB_TOPIK4반소식_mn_20261023/기획.md
@@ -47,3 +47,4 @@
 - **낯선 사람 이해 시험(v2 최종 8장)** — 새 하위 에이전트(Sonnet, 몽골 유학생 TOPIK 3급 역할): 답 1 「TOPIK 4급이 막막한 몽골 유학생용 온라인 반(토요일 수업 + 매주 쓰기 첨삭, 8주 30만 원)을 2027년 3월쯤 열려는데, 10명이 모여야 열려서 지금은 돈 없이 미리 등록만 받는대」 = 한 문장과 같음 · 끝까지 · 4점 → **통과**. 남은 물음: 4 · 5장 첨삭 예시의 「왜 틀렸나」(53번 15%포인트는 맛보기 영상 몫), 「Туршилтын анги」가 이미 있었나, 선생님이 누구인지(미정 — 안 씀).
 - **Fable 최종(v2)** — P0 없음. P1 둘 고침: 2장 「51–54-р」가 줄 끝에서 「51–54- / р」로 끊김 → 한 덩이로, 1장 몽글이 V자 눈썹이라 화나 보임 → 표정만 다시 구움(판A2). P2 반영: 4 · 5장 몽골어 풀이를 한국어보다 크게 · 잉크색, 끝 장 행동을 하나로(친구에게 보내기는 캡션에만), 차시표 ①②를 한글 서체로. 남긴 것: 7장 «цахим шуудангаар»(1차 맞춤법 층이 «имэйл»을 짚어 바꾼 말), 3장 앱 화면이 한국어 UI라는 점(과제 칸 몽골어 표시를 확인하기 전이라 캡션에 안 붙임).
 - **몽골어 1층 — Vertex 7차(10-23 21시)** — 10-23 21시 Vertex Gemini 3.1 Pro 대조기 7차 끝(유호님 「Vertex(Gemini 3.1 Pro)로 자막·화면 글 전부 역번역 검수 받아줘. 크레딧 쓰는 거 괜찮아」) — 화면 글 · 캡션 · 페북 본문 · 댓글 답 몽골어 전부를 8묶음(①5 · ②3)으로, 문법 8묶음 모두 「정상」 · 맞춤법(spellcheck.mn) 의심 0 · 직역 역번역 뜻이 한국어와 같음. 고친 줄 없음. 6차(구독 문)는 돌릴 필요가 없어졌다.
+- **아르곤 대조(10-24)** — 14시 세션 8차(문법 gemini-4-argon)에서 1~3장 묶음만 「어색」(2장 셋째 줄 1인칭 «миний» · 3장 «Ихэвчлэн Баасан гараг хүртэл»). 9차에서 «бичсэнээ шалгуулах» · «Баасан гараг гэхэд · багш ихэвчлэн засаад …»로 고치자 아르곤이 «ихэвчлэн»(「대개만 고쳐 준다」로 읽힘)과 1번 줄 «төгсөхийн тулд … хэрэгтэй»(동사 없음)을 짚었고, 10차 «төгсөхөд … хэрэгтэй» · «Баасан гараг гэхэд · багш засаад буцааж өгнө»가 아르곤 · Vertex 3.1 Pro 모두 「정상」. 「보통」을 빼면서 7주(모의) 54번은 다음 주 화요일에 돌려준다는 예외(첨삭기준)가 글에서 빠졌다 — 준비.json 남은위험에 적고, 묻는 사람에게 그대로 답한다. 2 · 3장을 다시 구워 10-24 16:02에 21:00로 예약했다.
